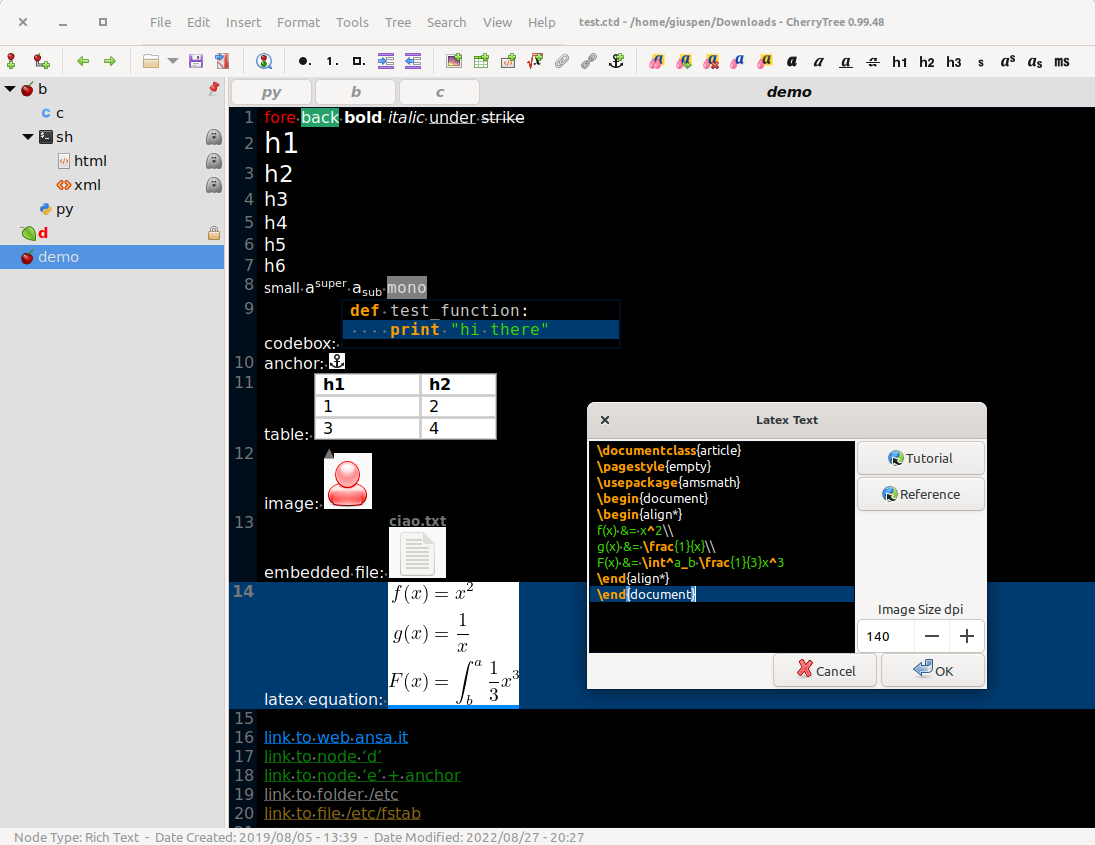
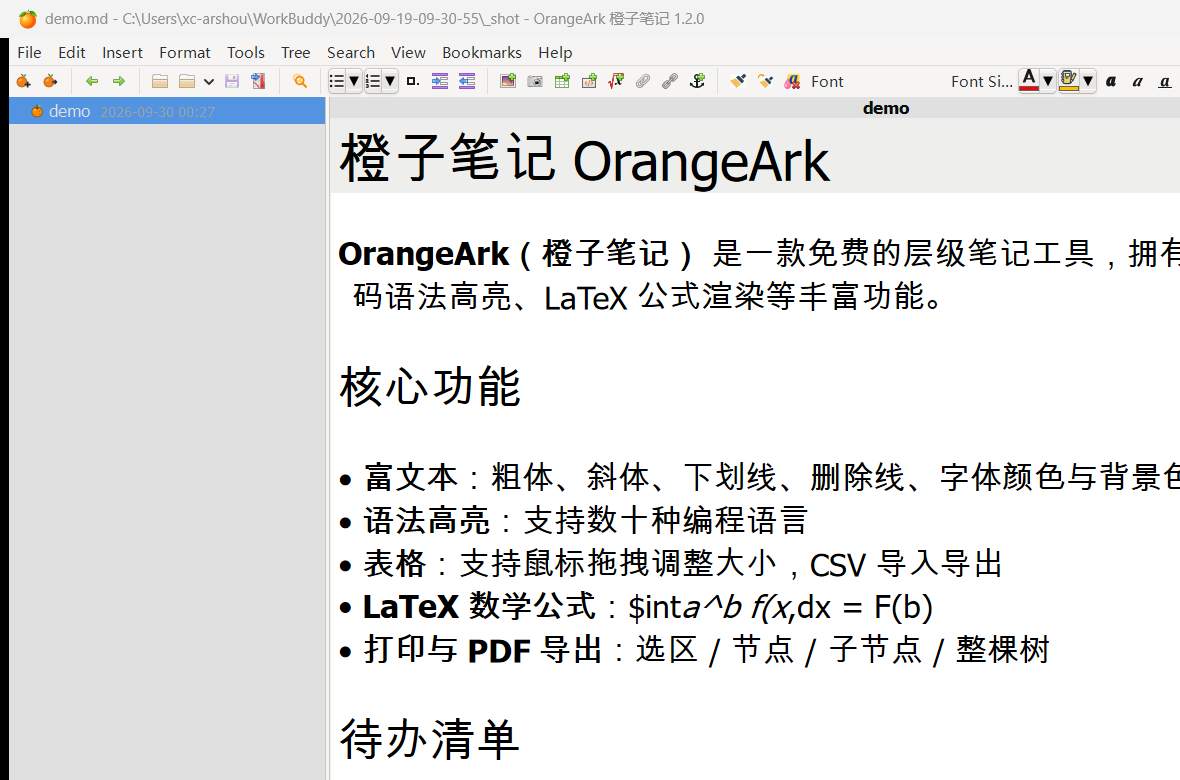
OrangeArk v1.2.1: explicit Ctrl/Shift multi-select for tree nodes, CherryTree screenshot in README replaced

diff --git a/src/ct/ct_main_win_events.cc b/src/ct/ct_main_win_events.cc
@@ -95,6 +95,58 @@ void CtMainWin::_on_treeview_cursor_changed()
 
 // GTK3 event handlers (not used in GTK4)
 #if GTKMM_MAJOR_VERSION < 4
+// OrangeArk: handle Ctrl/Shift clicks by hand instead of relying on the default
+// GTK3 behaviour. With SELECTION_MULTIPLE the default is easy to break (and the
+// click also moves the focus to the text view, which makes the extra selected
+// rows look unselected), so: Ctrl toggles the clicked row, Shift selects the
+// whole range between the cursor row and the clicked one. Plain clicks keep the
+// default handling (single select + open the node).
+bool CtMainWin::_on_treeview_button_press_event(GdkEventButton* event)
+{
+    if (event->button != 1) return false;
+    const bool ctrl = (event->state & GDK_CONTROL_MASK) != 0;
+    const bool shift = (event->state & GDK_SHIFT_MASK) != 0;
+    if (not ctrl and not shift) return false;   // plain click -> default handling
+
+    Gtk::TreeModel::Path path;
+    if (not _uCtTreeview->get_path_at_pos((int)event->x, (int)event->y, path)) return false;
+
+    Glib::RefPtr<Gtk::TreeSelection> rSelection = _uCtTreeview->get_selection();
+    if (ctrl) {
+        if (rSelection->is_selected(path)) rSelection->unselect(path);
+        else rSelection->select(path);
+    }
+    else {
+        Gtk::TreeModel::Path anchor;
+        Gtk::TreeView::Column* pFocusColumn = nullptr;
+        _uCtTreeview->get_cursor(anchor, pFocusColumn);
+        if (anchor.empty()) {
+            rSelection->select(path);
+        }
+        else {
+            rSelection->unselect_all();
+            // OrangeArk: gtkmm3 has no TreeSelection::select_range (the C API
+            // gtk_tree_selection_select_range is not wrapped), so walk the
+            // tree in depth-first order — which is exactly the TreePath
+            // ordering — from the lower path to the higher one and select
+            // every row in between.
+            Glib::RefPtr<Gtk::TreeModel> model = _uCtTreeview->get_model();
+            Gtk::TreeModel::iterator it_a = model->get_iter(anchor);
+            Gtk::TreeModel::iterator it_b = model->get_iter(path);
+            if (it_a and it_b) {
+                Gtk::TreeModel::iterator lo = it_a, hi = it_b;
+                // gtkmm3 does not wrap TreePath::compare either — use the C API
+                if (gtk_tree_path_compare(anchor.gobj(), path.gobj()) > 0) { lo = it_b; hi = it_a; }
+                for (Gtk::TreeModel::iterator it = lo; it != hi; ++it)
+                    rSelection->select(it);
+                rSelection->select(hi);
+            }
+        }
+    }
+    _uCtTreeview->set_cursor(path);
+    return true;   // handled: don't let GTK replace the selection
+}
+
 bool CtMainWin::_on_treeview_button_release_event(GdkEventButton* event)
 {
     if (event->button == 3) {
@@ -122,7 +174,10 @@ bool CtMainWin::_on_window_key_press_event(GdkEventKey* event)
 void CtMainWin::_on_treeview_event_after(GdkEvent* event)
 {
     if (event->type == GDK_BUTTON_PRESS and event->button.button == 1) {
-        if (_pCtConfig->treeClickFocusText) {
+        // OrangeArk: on a Ctrl/Shift click the tree must keep the focus, so the
+        // several selected rows stay visibly highlighted
+        const bool modifiedClick = (event->button.state & (GDK_CONTROL_MASK | GDK_SHIFT_MASK)) != 0;
+        if (_pCtConfig->treeClickFocusText and not modifiedClick) {
             _ctTextview.mm().grab_focus();
         }
         if (_pCtConfig->treeClickExpand) {

diff --git a/src/ct/ct_main_win.cc b/src/ct/ct_main_win.cc
@@ -606,6 +606,7 @@ void CtMainWin::_reset_CtTreestore_CtTreeview()
     _tree_just_auto_expanded = false;
     _uCtTreeview->signal_cursor_changed().connect(sigc::mem_fun(*this, &CtMainWin::_on_treeview_cursor_changed));
     #if GTKMM_MAJOR_VERSION < 4
+    _uCtTreeview->signal_button_press_event().connect(sigc::mem_fun(*this, &CtMainWin::_on_treeview_button_press_event), false);
     _uCtTreeview->signal_button_release_event().connect(sigc::mem_fun(*this, &CtMainWin::_on_treeview_button_release_event));
     _uCtTreeview->signal_event_after().connect(sigc::mem_fun(*this, &CtMainWin::_on_treeview_event_after));
     _uCtTreeview->signal_row_activated().connect(sigc::mem_fun(*this, &CtMainWin::_on_treeview_row_activated));

diff --git a/src/ct/ct_main_win.h b/src/ct/ct_main_win.h
@@ -285,6 +285,7 @@ private:
 
     void _on_treeview_cursor_changed(); // pygtk: on_node_changed
 #if GTKMM_MAJOR_VERSION < 4
+    bool _on_treeview_button_press_event(GdkEventButton* event);
     bool _on_treeview_button_release_event(GdkEventButton* event);
     void _on_treeview_event_after(GdkEvent* event); // pygtk: on_event_after_tree
 #endif
